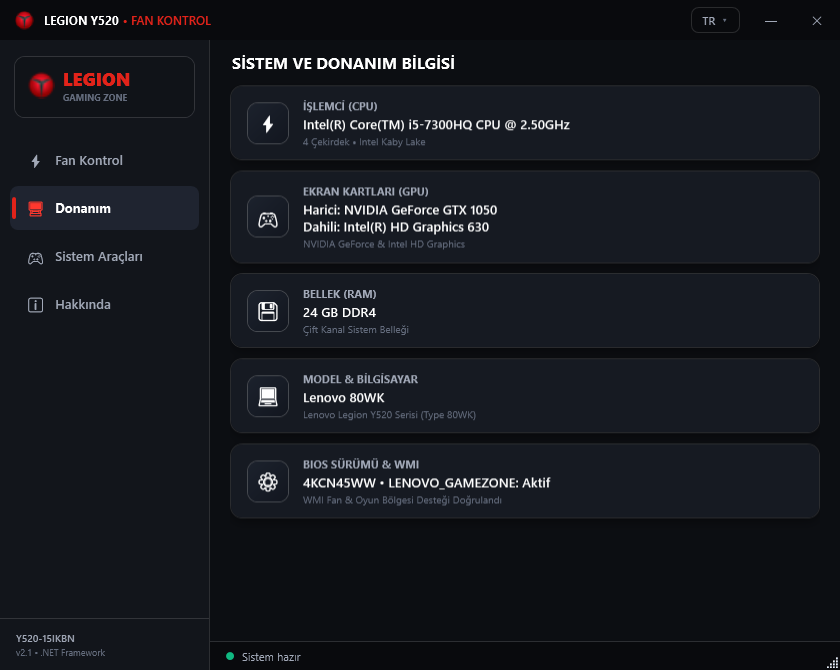
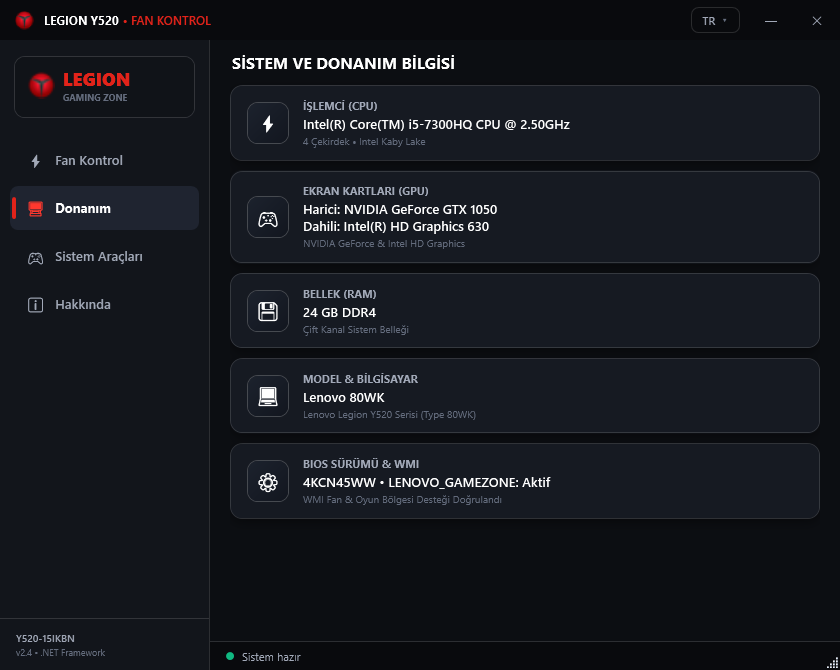
Legion Y520 Fan Kontrol v2.5
- Kart golgeleri ayri katmana tasindi; DropShadowEffect'in metinleri bulaniklastirmasi duzeltildi
- Ekran goruntuleri (README) net haliyle yenilendi

diff --git a/Program.cs b/Program.cs
@@ -563,16 +563,30 @@ namespace LegionFanControl
         // ---------------- UI Tasarimi ----------------
         private Border MakeCard(UIElement child, Thickness? margin = null, Thickness? padding = null)
         {
-            return new Border
+            // Golge ayri bir katmanda durur: efekt dogrudan karta uygulaninca
+            // WPF icerigi bitmap'e cevirir ve metinler bulanik gorunur.
+            var content = new Border
             {
                 Background = CardBrush,
                 CornerRadius = new CornerRadius(12),
                 BorderBrush = PanelEdgeBrush,
                 BorderThickness = new Thickness(1),
-                Effect = SoftShadow(16, 4, 0.4),
                 Padding = padding ?? new Thickness(18, 14, 18, 14),
-                Margin = margin ?? new Thickness(0, 0, 0, 10),
                 Child = child
+            };
+            var layers = new Grid();
+            layers.Children.Add(new Border
+            {
+                Background = CardBrush,
+                CornerRadius = new CornerRadius(12),
+                Effect = SoftShadow(16, 4, 0.4)
+            });
+            layers.Children.Add(content);
+            return new Border
+            {
+                Margin = margin ?? new Thickness(0, 0, 0, 10),
+                Tag = content,
+                Child = layers
             };
         }
 
@@ -2058,7 +2072,7 @@ namespace LegionFanControl
 
         // ---------------- 4. Sayfa: HAKKINDA ----------------
         private const string GitHubUrl = "https://github.com/fatih5228/LegionFanControl";
-        public const string CurrentVersion = "2.4";
+        public const string CurrentVersion = "2.5";
         private const string GitHubLatestReleasePage = GitHubUrl + "/releases/latest";
         private const string GitHubApiLatestRelease = "https://api.github.com/repos/fatih5228/LegionFanControl/releases/latest";
 
@@ -2434,7 +2448,10 @@ namespace LegionFanControl
 
             if (_heroCardBorder != null)
             {
-                _heroCardBorder.BorderBrush = on ? new SolidColorBrush(Color.FromArgb(0x80, 0xE2, 0x23, 0x1A)) : PanelEdgeBrush;
+                // MakeCard artik sarmalayici dondurur; cerceve asil icerik kartinda (Tag)
+                var heroInner = _heroCardBorder.Tag as Border;
+                if (heroInner != null)
+                    heroInner.BorderBrush = on ? new SolidColorBrush(Color.FromArgb(0x80, 0xE2, 0x23, 0x1A)) : PanelEdgeBrush;
             }
 
             if (_trayToggleItem != null)

diff --git a/Lang.cs b/Lang.cs
@@ -100,7 +100,7 @@ namespace LegionFanControl
             { "startup.fail",       "Başlangıç ayarı değiştirilemedi: {0}" },
 
             { "about.title",        "HAKKINDA" },
-            { "about.version",      "Sürüm 2.4 • .NET Framework (WPF)" },
+            { "about.version",      "Sürüm 2.5 • .NET Framework (WPF)" },
             { "about.desc",         "Lenovo Legion Y520 için Extreme Cooling, otomatik fan kontrolü ve oyun araçları." },
             { "about.dev",          "GELİŞTİRİCİ" },
             { "about.gh",           "KAYNAK KOD & GÜNCELLEMELER" },
@@ -197,7 +197,7 @@ namespace LegionFanControl
             { "startup.fail",       "Could not change startup setting: {0}" },
 
             { "about.title",        "ABOUT" },
-            { "about.version",      "Version 2.4 • .NET Framework (WPF)" },
+            { "about.version",      "Version 2.5 • .NET Framework (WPF)" },
             { "about.desc",         "Extreme Cooling, automatic fan control and gaming tools for Lenovo Legion Y520." },
             { "about.dev",          "DEVELOPER" },
             { "about.gh",           "SOURCE CODE & UPDATES" },

diff --git a/README.md b/README.md
@@ -28,8 +28,8 @@ Extreme Cooling, temperature-threshold auto fan mode, hardware monitoring and ga
 
 [Releases](https://github.com/fatih5228/LegionFanControl/releases) sayfasından:
 
-- **LegionFanControl-Setup-v2.4.exe** — kurulum sihirbazı (önerilen) / installer (recommended)
-- **LegionFanControl-v2.4.zip** — kurulumsuz taşınabilir sürüm / portable version
+- **LegionFanControl-Setup-v2.5.exe** — kurulum sihirbazı (önerilen) / installer (recommended)
+- **LegionFanControl-v2.5.zip** — kurulumsuz taşınabilir sürüm / portable version
 
 > Uygulama WMI ve donanım sensörlerine erişmek için yönetici yetkisi ister.
 > The app requires administrator rights (WMI + hardware sensors).
